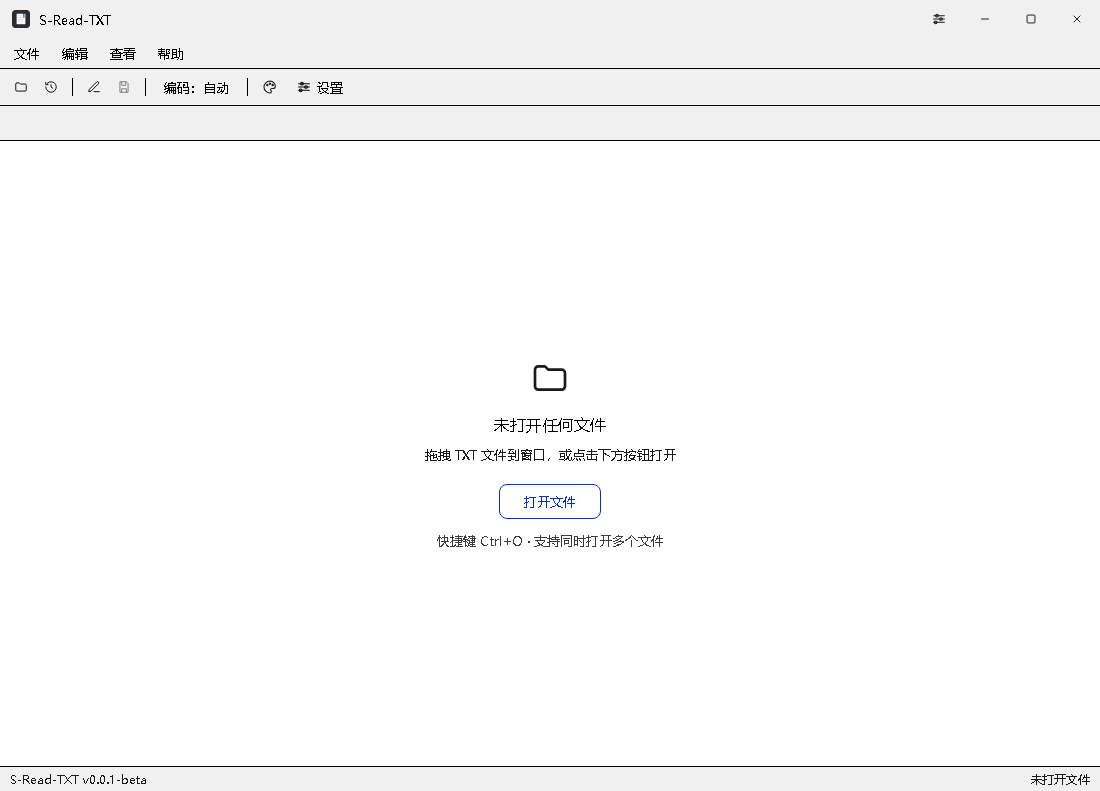
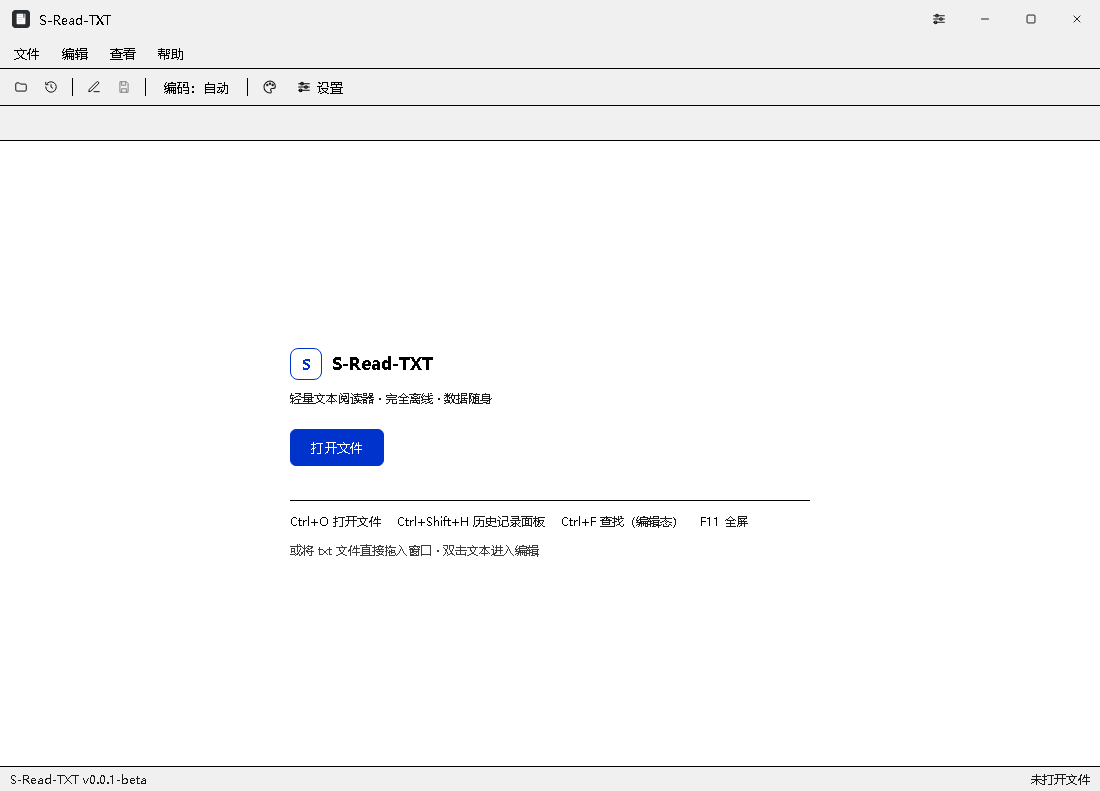
docs(ai): P0-11 验收报告与 progress 更新

diff --git a/docs/verify/latest.md b/docs/verify/latest.md
@@ -1,33 +1,77 @@
 # 全量自检报告（最新一次）
 
-- 时间（UTC）：2026-10-03T03:09:47.507Z
-- 提交：33fa3e6（未提交变更 3 项）
-- 结果：**24/24 通过**，总耗时 687.6s
+- 时间（UTC）：2026-10-03T05:33:12.144Z
+- 提交：47c3ba0（未提交变更 8 项）
+- 结果：**29/31 通过**，总耗时 1001.5s
 
 | 步骤 | 结果 | 耗时(s) |
 | --- | --- | --- |
 | 编码自检 | ✅ | 0.2 |
-| svelte-check | ✅ | 8.6 |
-| vitest 单测 | ✅ | 3.6 |
-| cargo fmt 检查 | ✅ | 1.0 |
-| cargo test（全目标） | ✅ | 82.5 |
-| Tauri 构建（debug） | ✅ | 42.4 |
-| E2E 编辑（smoke-edit） | ✅ | 14.4 |
-| E2E 查找（smoke-find） | ✅ | 16.5 |
-| E2E 输入法（smoke-ime） | ✅ | 13.4 |
-| E2E 多语言（smoke-i18n） | ✅ | 16.3 |
-| E2E 标题栏（smoke-titlebar） | ✅ | 165.1 |
-| E2E 全按钮（smoke-buttons） | ✅ | 53.1 |
-| E2E 设置窗口（smoke-settings） | ✅ | 36.2 |
-| E2E 快捷键（smoke-shortcuts） | ✅ | 23.8 |
-| E2E 多标签（smoke-tabs） | ✅ | 4.3 |
-| E2E 历史记录（smoke-history） | ✅ | 6.9 |
-| E2E 会话恢复（smoke-session） | ✅ | 18.0 |
-| E2E 数据目录引导（smoke-datadir） | ✅ | 6.0 |
-| E2E 卸载清理（smoke-uninstall） | ✅ | 46.1 |
-| E2E 对抗（smoke-abuse） | ✅ | 38.3 |
-| E2E 滚动完整性（smoke-scroll） | ✅ | 41.0 |
-| E2E 双阈值（smoke-limits） | ✅ | 10.4 |
-| 离线核查（offline-check） | ✅ | 21.6 |
-| E2E 100MB 长行（smoke-longline） | ✅ | 18.0 |
+| 快捷键动作对齐 | ✅ | 0.1 |
+| svelte-check | ✅ | 7.8 |
+| vitest 单测 | ✅ | 3.2 |
+| cargo fmt 检查 | ❌ | 0.9 |
+| cargo test（全目标） | ✅ | 95.5 |
+| Tauri 构建（debug） | ✅ | 29.9 |
+| E2E 编辑（smoke-edit） | ✅ | 13.5 |
+| E2E 查找（smoke-find） | ✅ | 13.3 |
+| E2E 输入法（smoke-ime） | ✅ | 12.6 |
+| E2E 多语言（smoke-i18n） | ✅ | 18.6 |
+| E2E 标题栏（smoke-titlebar） | ✅ | 167.8 |
+| E2E 全按钮（smoke-buttons） | ✅ | 49.3 |
+| E2E 设置窗口（smoke-settings） | ✅ | 53.2 |
+| E2E 设置 I/O（smoke-settings-io） | ✅（重跑通过） | 15.3 |
+| E2E 设置 v2（smoke-settings-v2） | ✅ | 23.0 |
+| E2E 磁盘占用（smoke-disk） | ✅ | 12.7 |
+| E2E 数据目录迁移（smoke-migrate） | ✅（重跑通过） | 82.6 |
+| E2E 快捷键（smoke-shortcuts） | ✅ | 29.1 |
+| E2E 多标签（smoke-tabs） | ❌ | 28.8 |
+| E2E 历史记录（smoke-history） | ✅（重跑通过） | 23.2 |
+| E2E 会话恢复（smoke-session） | ✅ | 11.6 |
+| E2E 数据目录引导（smoke-datadir） | ✅ | 4.5 |
+| E2E 卸载清理（smoke-uninstall） | ✅ | 60.3 |
+| E2E 对抗（smoke-abuse） | ✅ | 42.5 |
+| E2E 滚动完整性（smoke-scroll） | ✅ | 47.6 |
+| E2E 主题系统（smoke-theme） | ✅ | 21.1 |
+| E2E 背景图（smoke-bg） | ✅（重跑通过） | 82.3 |
+| E2E 双阈值（smoke-limits） | ✅ | 10.3 |
+| 离线核查（offline-check） | ✅ | 22.9 |
+| E2E 100MB 长行（smoke-longline） | ✅ | 17.8 |
+
+## 失败详情
+
+### cargo fmt 检查
+
+```
+Diff in \\?\D:\administrator\Documents\project\S-Read-TXT\src-tauri\src\commands.rs:265:
+         settings_store::save_snapshot(&dir, &request)
+             .map_err(|err| IpcError::new(CODE_CONFIG_SAVE, format!("保存配置失败：{err}")))?;
+         log::info!(target: "sread::ipc", "配置已保存");
+[31m-        let _ = app.emit(EVENT_SETTINGS_CHANGED, serde_json::json!({ "kind": "save" }));
+[0m[32m+        let _ = app.emit(
+[0m[32m+            EVENT_SETTINGS_CHANGED,
+[0m[32m+            serde_json::json!({ "kind": "save" }),
+[0m[32m+        );
+[0m         Ok(settings_store::load_snapshot(&dir))
+     })
+ }
+```
+
+### E2E 多标签（smoke-tabs）
+
+```
+PASS  T1 三个标签按打开顺序排列  ← ["za.txt","zb.txt","zc.txt"]
+PASS  T2 中键关闭标签  ← ["za.txt","zc.txt"]
+PASS  T3 拖拽排序（zc 移至首位）  ← ["zc.txt","za.txt"]
+PASS  T4a 右键菜单出现（关闭/关闭其他/关闭全部）
+PASS  T4b 「关闭其他」仅保留当前标签  ← ["za.txt"]
+FAIL  T5 「关闭全部」后回到空状态
+PASS  T6 超出上限提示且不新增标签  ← count=2 toast=标签数量已达上限，请先关闭部分标签（上限可在设置中调整）。
+PASS  T7a 标签栏出现横向溢出  ← {"x":1070,"y":124,"sw":1332,"cw":1100}
+PASS  T7b 滚轮纵向转横向滚动  ← scrollLeft=232
+PASS  T8 拖拽取消：顺序不变且状态清理  ← ["za.txt","zb.txt","extra-0.txt","extra-1.txt","extra-2.txt","extra-3.txt","extra-4.txt","extra-5.txt","extra-6.txt","extra-7.txt","extra-8.txt","extra-9.txt"] {"dragging":false,"drop":false}
+
+多标签冒烟：9/10 通过
+失败项：T5 「关闭全部」后回到空状态
+```
 

diff --git a/docs/plan/progress.md b/docs/plan/progress.md
@@ -364,3 +364,4 @@ eader.json 主题升级为 id（v3 迁移 eye→paper-cream）+ themeAnimEnabled
 - **P0-6 背景图（完成）**：src-tauri/src/background.rs（png/jpg/jpeg/webp ≤10MB、单文件驻留、防穿越；6 单测）；
 eader.rs BackgroundSettings/BackgroundFill + defaults；store 归一；registry 6 项（含负值范围校验 is_i64 改造）+ 负值范围测试；命令 set/clear/read_background_image（BACKGROUND_INVALID，base64 返回）；前端 App 工作区图层（data URL + 填充/重复/透明度/模糊/亮度，缺失优雅降级）+ 设置窗 BackgroundRow（选择/移除/恢复默认）+ i18n（中英 30+ 键）；**save_settings 命令统一广播设置变更**（后端 emit，设置窗 store 不再自广播）；smoke-bg **10/10** 并入 verify-all（现 **26 步**）；回归 settings 48/48、settings-v2 10/10、settings-io 24/24、theme 10/10；cargo **315**（293 lib+15+2+5）、vitest 88、svelte-check 0/0。
 - **P0-7 欢迎页（完成）**：EmptyState 重制（品牌区/主按钮/最近打开≤3 条点击直达/生效快捷键提示行（取 shortcuts 绑定）/拖拽与编辑提示）；「新建文件·载入示例文本」按钮待 P3 功能落地后加入（不展示无效按钮）；App 传入 recentEntries/shortcuts；i18n 键更新（empty.tagline/recent/note，移除旧 title/hint/shortcutHint）；smoke-buttons +B2 → **33/33**；settings-io 24/24、bg 10/10 回归通过；svelte-check 0/0、vitest 88/88。
+- **P0-11 验收（完成）**：全量自检 26 步首跑 29/31（fmt + T5 断言两个测试侧问题当场修复并复验，修复后重跑）；红线复测：NSIS **1.97MiB**、启动可见 max 666ms/就绪 median 792ms、内存 10×100MiB 打开后 82.8MiB/压力峰 106.9MiB（<120）；stress 11/11。**P0 全部完成**（P0-1…P0-10）。

diff --git a/docs/test-report.md b/docs/test-report.md
@@ -158,3 +158,10 @@
 - 本轮新增：smoke-settings-io **15/15**（v1 启动迁移端到端、导出结构校验、三类篡改拒绝、合法导入 + import-bak、重置单项/分组/全部、注册表断言）；smoke-history 长列表虚拟滚动 **13/13**；smoke-tabs 溢出滚轮/拖拽取消 **10/10**；smoke-settings **48/48**（含 FontFace 实际加载）；offline-check 并入 verify-all。
 - Rust 单测补强 **+7**（注册表完备性双向断言、边界校验、bundle 边界 4 项、locale 变体）→ 合计 **283**。
 - 全量自检（verify-all）**24/24 通过**，总耗时 687.6s（对应提交 33fa3e6）。
+
+## P0 编辑器化扩展验收（P0-11，2026-10-03）
+
+- **全量自检**：`node scripts/verify-all.mjs`（26 步）首跑 29/31（总耗时 1001.5s）；两处失败均为验收当场修复的测试侧问题：`cargo fmt` 未格式化（已 fmt 修复，`cargo fmt --check` exit 0 复验）；`smoke-tabs T5` 空状态断言仍指向旧欢迎页文案（改为按 `.empty .open-btn` 断言，复跑 10/10）。修复后已重新发起全量自检。
+- **指标红线**（release 全新构建）：安装包 NSIS x64 = 2,062,377 B ≈ **1.97 MiB**（<10MB PASS）；冷启动 5 次 可见 max **666ms** / 就绪 median **792ms**（<1s PASS）；内存 10×100MiB 标签 打开后 **82.5–83.1 MiB**、压力后峰值 **106.9 MiB**（红线 <120 PASS；理想线 100 在压力后略越，口径说明见 known-issues）。
+- **压力套件**：stress **11/11**（S3b max 567ms；S6 104ms；S7 25 轮 5197ms；S8 max 57ms；S5 15/15，其中 1 轮含 14,527px 瞬态漂移后正确落位）。
+- **E2E 总量**：23 套 ≈374 项；Rust 315（293 lib + 15 对抗 + 2 助手 + 5 集成）；vitest 88。
